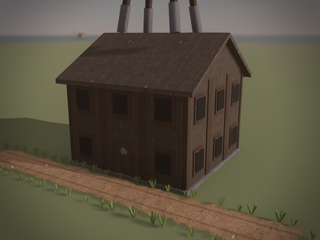
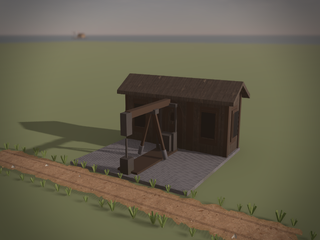
Fase 73: o cavalo-de-pau do poço de petróleo
O poço troca a torre de mina emprestada das minas por um cavalo-de-pau
feito com as peças e a folha de texturas do kit: silhueta PUMPJACK (no
fim do enum), pátio na frente com o estrado, o cavalete em A, a caixa de
engrenagens com os contrapesos e a cabeça do poço, e o galpão baixo
atrás. O balancim balança em volta do eixo enquanto o poço produz
(Rotor.rock), no tempo de jogo. Foto do menu refeita. Só apresentação.

Changed region(s): [[0.0, 0.0, 0.7812, 0.8167]]

diff --git a/AGENTS.md b/AGENTS.md
@@ -1925,6 +1925,12 @@ Regras que já custaram investigação:
 - **Plano** em `docs/plano_fase72.md`. `UndoHistory` guarda a camada de trilho do retângulo (`rails_before`/`after`) e
   aceita o `BuildRailCommand`; o `UndoCommand` devolve o trilho (posto ou demolido) e recusa se ele mudou depois.
 
+### O cavalo-de-pau (Fase 73, nossa)
+
+- **Plano** em `docs/plano_fase73.md`. `Silhouette.PUMPJACK` (no fim do enum) no poço: pátio na frente com o cavalete,
+  a caixa de engrenagens e a cabeça do poço (`BuildingKit._pumpjack`, `pumpjack_layout`), galpão baixo atrás, e o
+  balancim que balança (`Rotor.rock`, `BuildingView._rotor_rocks`) enquanto o poço produz.
+
 Todo asset ou addon novo entra em `CREDITS.md` (autor, link, licença, arquivos). O que
 faltar vira placeholder e entra em `assets/TODO_ASSETS.md`. Addon só na fase que o usa,
 atrás de um script adaptador próprio, depois de confirmar a versão compatível com o 4.7.
@@ -2008,6 +2014,7 @@ atrás de um script adaptador próprio, depois de confirmar a versão compatíve
 | 70 — Ferrovia e petróleo (nossa) | **feita em 28/10/2026, a pedido do dono**: campos de petróleo pela semente (assinatura igual), poço, usina a petróleo e trilho que leva o petróleo do poço à usina (sem carroça); trilho no save; números provisórios; plano em `docs/plano_fase70.md` |
 | 71 — O trem no trilho (nossa) | **feita em 28/10/2026, a pedido do dono**: locomotiva com vagão-tanque gerados no código indo e voltando pelo caminho mais curto do trilho entre o poço e a usina; só apresentação (a simulação e as assinaturas não mudam); plano em `docs/plano_fase71.md` |
 | 72 — Desfazer o trilho (nossa) | **feita em 28/10/2026, a pedido do dono**: o trilho entra no histórico do Ctrl+Z (posto ou demolido, com o reembolso, e o refazer); só o histórico, fora do save; plano em `docs/plano_fase72.md` |
+| 73 — O cavalo-de-pau (nossa) | **feita em 28/10/2026, a pedido do dono**: o poço de petróleo troca a torre de mina por um cavalo-de-pau gerado com as peças do kit, com o balancim balançando enquanto produz; só apresentação; plano em `docs/plano_fase73.md` |
 
 Pendências já vistas para fases futuras:
 

diff --git a/docs/plano_fase73.md b/docs/plano_fase73.md
@@ -1,0 +1,33 @@
+# Plano da Fase 73 — O cavalo-de-pau do poço de petróleo
+
+**Estado: feita em 28/10/2026, a pedido do dono** ("pode ir para a próxima fase"; proposta deixada de fora na Fase 70).
+Só apresentação: a simulação, o save, o lote e as assinaturas não mudam.
+
+## O que entrou
+
+- **Silhueta nova** (`BuildingDef.Silhouette.PUMPJACK`, no fim do enum: os números dos `.tres` não mudam): o poço
+  deixa a torre de mina (que era emprestada das minas) e ganha o cavalo-de-pau.
+- **A forma** (`BuildingKit`): as duas fileiras da frente do lote viram pátio (`PUMPJACK_ROWS`), com o estrado de
+  madeira, o cavalete em A com a escora, o mancal do eixo, a caixa de engrenagens com as manivelas e os contrapesos e a
+  cabeça do poço com a haste; o galpão baixo (até `PUMPJACK_SHED_M`) fica na fileira de trás. Tudo com as peças e a
+  folha de texturas do kit (madeira e ferro): nenhum asset novo e nenhum material novo.
+- **O balancim** (`BuildingKit.Rotor.rock`, `BuildingView`): a viga com a cabeça de ferro, a travessa e as bielas
+  balançam em volta do eixo no alto do cavalete, até `PUMPJACK_ROCK` (0,28 rad) para cada lado, enquanto o poço produz,
+  no tempo de jogo (para na pausa e com o poço parado). As partes que giram (moinho, roda d'água, polia) seguem iguais.
+- A foto do poço no menu foi refeita.
+
+## Números
+
+- Benchmark: o mundo do benchmark não tem poço; neutra (`docs/benchmark.md`).
+
+## Como testar
+
+- `tests/presentation/test_phase73_pumpjack.gd`: o poço com o pátio e o galpão baixo (a torre continua nas minas), o
+  balancim no alto do cavalete e dentro do pátio mesmo no ângulo maior, e o balanço para os dois lados sem passar da
+  amplitude enquanto produz, parado com a saída cheia.
+- Capturas: `tools/capture_phase73.tscn -- <pasta>` (no mundo plano, o poço de dois lados e de longe; em
+  `F:\ferramentas\capturas\fase73`).
+
+## Fica de fora (proposta à espera do dono)
+
+- Um modelo próprio da usina a petróleo, o tanque de armazenagem ao lado do poço e o barulho da bomba.

diff --git a/docs/benchmark.md b/docs/benchmark.md
@@ -1265,3 +1265,8 @@ então não há trem: tick médio 1,32 ms, os mesmos 2755 objetos e 1117 draw ca
 Área de trabalho escondida, alto, semente 1840 (v3), máquina ainda no estado lento. O histórico de desfazer não roda no
 benchmark: tick médio 1,31 ms, 2769 objetos e 1119 draw calls (a variação de sempre do quadro com tudo visível), GPU
 21,9 ms, dia inteiro 36,6 FPS (pior quadro 260 ms). Neutra.
+## Fase 73 — o cavalo-de-pau (28/10/2026)
+
+Área de trabalho escondida, alto, semente 1840 (v3), máquina ainda no estado lento. O mundo do benchmark não tem poço
+de petróleo: tick médio 1,33 ms, os mesmos 2755 objetos e 1117 draw calls, GPU 23,2 ms, dia inteiro 35,0 FPS (pior
+quadro 432 ms, no nível das Fases 64 a 70). Neutra.
